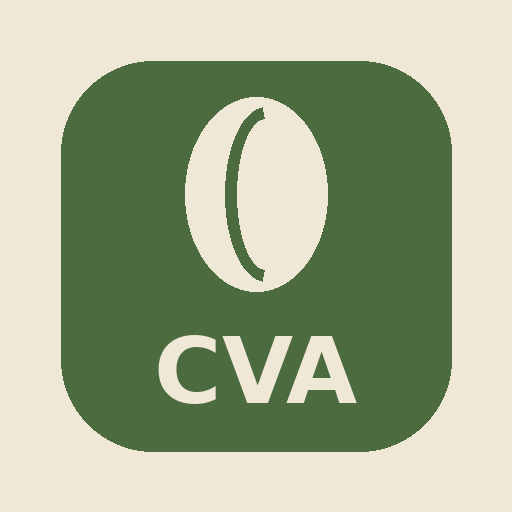
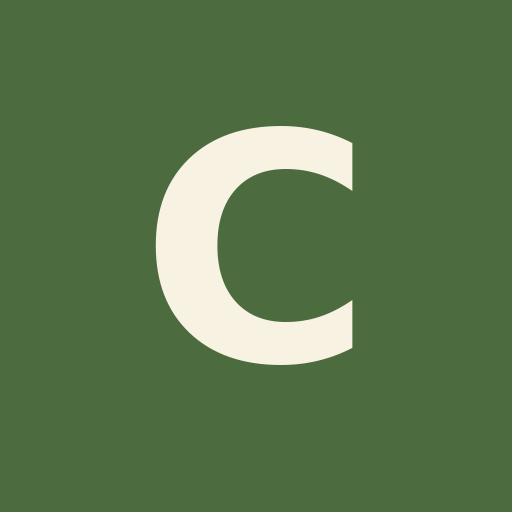
Add files via upload

diff --git a/index.html b/index.html
@@ -3,19 +3,17 @@
 <head>
 <meta charset="UTF-8">
 <meta name="viewport" content="width=device-width, initial-scale=1, maximum-scale=1, viewport-fit=cover">
-<meta name="theme-color" content="#EFE8D6">
+<meta name="theme-color" content="#4C6B3F">
 <meta name="apple-mobile-web-app-capable" content="yes">
 <meta name="apple-mobile-web-app-status-bar-style" content="black-translucent">
-<meta name="mobile-web-app-capable" content="yes">
-<meta name="apple-mobile-web-app-title" content="Coffee Value Assessment">
-<link rel="manifest" href="manifest.json">
-<link rel="apple-touch-icon" href="icon-192.png">
-<link rel="icon" type="image/png" sizes="192x192" href="icon-192.png">
-<link rel="icon" type="image/png" sizes="512x512" href="icon-512.png">
-
 <meta name="application-name" content="Coffee Value Assessment">
 <meta name="apple-mobile-web-app-title" content="Coffee Value Assessment">
 <title>Coffee Value Assessment</title>
+<link rel="manifest" href="manifest.json">
+<link rel="apple-touch-icon" href="icon-192.png">
+<meta name="mobile-web-app-capable" content="yes">
+<meta name="msapplication-TileColor" content="#4C6B3F">
+
 <link rel="preconnect" href="https://fonts.googleapis.com">
 <link href="https://fonts.googleapis.com/css2?family=Be+Vietnam+Pro:wght@500;600;700&family=Inter:wght@400;500;600;700&family=IBM+Plex+Mono:wght@500;600;700&display=swap" rel="stylesheet">
 <style>
@@ -366,6 +364,7 @@
     <div class="section report-controls">
       <div class="section-title" data-i18n="reportPickScoreLabel">Gắn điểm Cupping (tuỳ chọn)</div>
       <select id="reportSessionSampleSelect"></select>
+      <div class="mini-label" id="reportMatchHint" style="margin-top:8px; margin-bottom:0;"></div>
     </div>
     <div class="actions" style="margin:0 16px 0;">
       <button class="btn btn-primary" id="exportPdfBtn" data-i18n="reportExportBtn">🖨️ Xuất PDF / In</button>
@@ -426,6 +425,7 @@
       actionsNew: 'Phiên mới', actionsSave: 'Lưu phiên này', historyEmpty: 'Chưa có phiên nào được lưu.',
       historyLoadError: 'Không tải được lịch sử.', historyNoName: 'Không tên', sessionHistoryTitle: 'Lịch sử phiên cupping',
       reportPickProfileLabel: 'Chọn hồ sơ mẫu', reportPickScoreLabel: 'Gắn điểm Cupping (tuỳ chọn)', reportNoScore: '— Không gắn điểm —',
+      reportAutoMatched: '✓ Tự động khớp điểm cupping theo tên mẫu "{name}"', reportNoAutoMatch: 'Không tìm thấy điểm cupping trùng tên mẫu — chọn thủ công ở trên nếu có.',
       reportNoProfileOpt: '— Chọn hồ sơ —', reportExportBtn: '🖨️ Xuất PDF / In', reportEmptyHint: 'Chọn một hồ sơ mẫu để xem trước báo cáo.',
       reportGenerated: 'Xuất lúc',
       toastMaxChoice: 'Tối đa {max} lựa chọn', toastSaveFail: 'Lưu thất bại, thử lại.', toastSaved: 'Đã lưu {n} mẫu trong phiên này',
@@ -472,6 +472,7 @@
       actionsNew: 'New session', actionsSave: 'Save this session', historyEmpty: 'No sessions saved yet.',
       historyLoadError: 'Could not load history.', historyNoName: 'Untitled', sessionHistoryTitle: 'Cupping Session History',
       reportPickProfileLabel: 'Select sample profile', reportPickScoreLabel: 'Attach cupping score (optional)', reportNoScore: '— No score —',
+      reportAutoMatched: '✓ Auto-matched cupping score by sample name "{name}"', reportNoAutoMatch: 'No cupping score found matching this sample name — pick one manually above if available.',
       reportNoProfileOpt: '— Select profile —', reportExportBtn: '🖨️ Export PDF / Print', reportEmptyHint: 'Select a sample profile to preview the report.',
       reportGenerated: 'Generated',
       toastMaxChoice: 'Up to {max} choices', toastSaveFail: 'Save failed, please try again.', toastSaved: 'Saved {n} sample(s) in this session',
@@ -1583,7 +1584,32 @@
       sessionSelect.innerHTML = opts;
     }catch(e){ sessionSelect.innerHTML = '<option value="">'+t('reportNoScore')+'</option>'; }
 
+    autoMatchScoreForSelectedProfile();
     renderReportPreview();
+  }
+
+  function autoMatchScoreForSelectedProfile(){
+    const pid = document.getElementById('reportProfileSelect').value;
+    const profile = reportCache.profiles.find(p=>p.id===pid);
+    const scoreSelect = document.getElementById('reportSessionSampleSelect');
+    const hintEl = document.getElementById('reportMatchHint');
+    if(!profile || !profile.meta || !(profile.meta.sampleNo||'').trim()){
+      if(hintEl) hintEl.textContent = '';
+      return;
+    }
+    const target = profile.meta.sampleNo.trim().toLowerCase();
+    for(const sess of reportCache.sessions){
+      const samples = (sess.affective && sess.affective.samples) || [];
+      for(let idx=0; idx<samples.length; idx++){
+        if((samples[idx].label||'').trim().toLowerCase() === target){
+          scoreSelect.value = sess.id+'::'+idx;
+          if(hintEl) hintEl.textContent = t('reportAutoMatched').replace('{name}', profile.meta.sampleNo);
+          return;
+        }
+      }
+    }
+    scoreSelect.value = '';
+    if(hintEl) hintEl.textContent = t('reportNoAutoMatch');
   }
 
   // ---------- Language switching ----------
@@ -1632,8 +1658,12 @@
       showToast(t('toastNewSession'));
       window.scrollTo({top:0, behavior:'smooth'});
     });
-    document.getElementById('reportProfileSelect').addEventListener('change', renderReportPreview);
-    document.getElementById('reportSessionSampleSelect').addEventListener('change', renderReportPreview);
+    document.getElementById('reportProfileSelect').addEventListener('change', ()=>{ autoMatchScoreForSelectedProfile(); renderReportPreview(); });
+    document.getElementById('reportSessionSampleSelect').addEventListener('change', ()=>{
+      const hintEl = document.getElementById('reportMatchHint');
+      if(hintEl) hintEl.textContent = '';
+      renderReportPreview();
+    });
     document.getElementById('exportPdfBtn').addEventListener('click', ()=>{ window.print(); });
   }
 
@@ -1654,15 +1684,15 @@
 })();
 </script>
 
+
 <script>
-/* PWA install + offline cache registration */
-if ('serviceWorker' in navigator) {
-  window.addEventListener('load', function () {
-    navigator.serviceWorker.register('./sw.js').catch(function (err) {
-      console.log('Service worker registration failed:', err);
+  if ('serviceWorker' in navigator) {
+    window.addEventListener('load', function () {
+      navigator.serviceWorker.register('./sw.js').catch(function (error) {
+        console.log('Service Worker registration failed:', error);
+      });
     });
-  });
-}
+  }
 </script>
 </body>
 </html>

diff --git a/sw.js b/sw.js
@@ -1,6 +1,5 @@
-// Coffee Value Assessment PWA cache
-const CACHE_NAME = 'cva-cache-v3';
-const APP_SHELL = [
+const CACHE_NAME = 'coffee-value-assessment-v20260709-c-logo';
+const APP_ASSETS = [
   './',
   './index.html',
   './manifest.json',
@@ -8,37 +7,28 @@ const APP_SHELL = [
   './icon-512.png'
 ];
 
-self.addEventListener('install', (event) => {
-  self.skipWaiting();
+self.addEventListener('install', event => {
   event.waitUntil(
-    caches.open(CACHE_NAME).then((cache) => cache.addAll(APP_SHELL))
+    caches.open(CACHE_NAME).then(cache => cache.addAll(APP_ASSETS)).then(() => self.skipWaiting())
   );
 });
 
-self.addEventListener('activate', (event) => {
+self.addEventListener('activate', event => {
   event.waitUntil(
-    caches.keys().then((keys) =>
-      Promise.all(keys.filter((key) => key !== CACHE_NAME).map((key) => caches.delete(key)))
-    ).then(() => self.clients.claim())
+    caches.keys().then(keys => Promise.all(keys.filter(key => key !== CACHE_NAME).map(key => caches.delete(key))))
+      .then(() => self.clients.claim())
   );
 });
 
-self.addEventListener('fetch', (event) => {
-  const request = event.request;
-  if (request.method !== 'GET') return;
-
+self.addEventListener('fetch', event => {
+  if (event.request.method !== 'GET') return;
   event.respondWith(
-    caches.match(request).then((cached) => {
-      const fetchPromise = fetch(request)
-        .then((networkResponse) => {
-          if (networkResponse && networkResponse.status === 200) {
-            const copy = networkResponse.clone();
-            caches.open(CACHE_NAME).then((cache) => cache.put(request, copy));
-          }
-          return networkResponse;
-        })
-        .catch(() => cached || caches.match('./index.html'));
-      return cached || fetchPromise;
-    })
+    fetch(event.request)
+      .then(response => {
+        const copy = response.clone();
+        caches.open(CACHE_NAME).then(cache => cache.put(event.request, copy));
+        return response;
+      })
+      .catch(() => caches.match(event.request).then(cached => cached || caches.match('./index.html')))
   );
 });